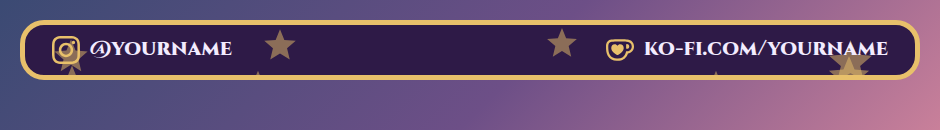
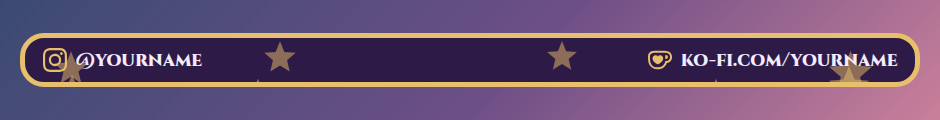
Size the Socials Bar text by the box's height
The text followed the width of the box, so drawing the box narrower made
everything smaller together and the two sides stayed just as far apart.
That is the opposite of what a bar wants. The text is now a share of the
box's height, so a narrower box closes the gaps up, between the sites and
between the left and right sides, and the text only gets smaller once the
gaps cannot close any further.

Text size is now a percent of the height (24 by default), the bar sits in
the middle of its box, and the pictures in the README are redrawn.

diff --git a/overlays/socials-bar/test/test-widget.js b/overlays/socials-bar/test/test-widget.js
@@ -83,15 +83,16 @@ const nameOf = (n) => (n.children[1] ? n.children[1].textContent : "");
   stub(() => true); await load({});
   ok(env.vars("sb-app")["--sb-shrink"] === 0.2, "it never shrinks past a fifth");
   stub(() => false); await load({}); ok(env.vars("sb-app")["--sb-shrink"] === 1 && env.vars("sb-app")["--sb-squeeze"] === 1, "and when there is room again it returns to full size");
+  ok(/container-type:\s*size/.test(css), "the text follows the height of the box, so a narrower box closes the gaps up and leaves the text alone");
   ok(/font-size:\s*calc\(var\(--sb-size[^;]*--sb-shrink/.test(css), "the size is the text size times the shrink");
 
   section("the look");
-  await load({ textSize: 2, iconScale: 2, gap: 3 });
+  await load({ textSize: 30, iconScale: 2, gap: 3 });
   let a = env.vars("sb-app");
-  ok(a["--sb-size"] === "2cqw" && a["--sb-icon"] === 2 && a["--sb-gap"] === 3, "the text, logo and gap sizes are settings");
+  ok(a["--sb-size"] === "30cqh" && a["--sb-icon"] === 2 && a["--sb-gap"] === 3, "the text, logo and gap sizes are settings");
   await load({ textSize: -1, iconScale: 99, gap: 0 });
   a = env.vars("sb-app");
-  ok(a["--sb-size"] === "0.5cqw" && a["--sb-icon"] === 4 && a["--sb-gap"] === 0.2, "within limits");
+  ok(a["--sb-size"] === "5cqh" && a["--sb-icon"] === 4 && a["--sb-gap"] === 0.2, "within limits");
   const cls = () => E("sb-app").classList;
   await load({}); ok(!cls().contains("ic-text") && !cls().contains("ic-brand"), "logos take the accent colour by default");
   await load({ iconColor: "text" }); ok(cls().contains("ic-text"), "or the text colour");

diff --git a/overlays/socials-bar/widget/widget.css b/overlays/socials-bar/widget/widget.css
@@ -11,9 +11,11 @@
   margin: 0;
   display: flex;
   flex-direction: column;
-  /* The width reference for the cqw sizes below. A container's own cqw units resolve
-     against its parent, so the card cannot be the container itself. */
-  container-type: inline-size;
+  /* The size reference for the cqh sizes below. The text follows the height of the box and not its width, so a box that is
+     drawn narrower closes the gaps up and leaves the text alone, and the text only gets smaller once the gaps cannot close
+     any further. */
+  container-type: size;
+  justify-content: center;
   -webkit-font-smoothing: antialiased;
 }
 #sb-root * { box-sizing: border-box; }
@@ -44,7 +46,7 @@
 
   flex: 0 0 auto;
   width: 100%;
-  padding: calc(var(--w-pad) * 1em) 3cqw;
+  padding: calc(var(--w-pad) * 1em) 0.9em;
   font-family: var(--w-font);
   color: var(--w-text);
   background: var(--w-bg);
@@ -53,7 +55,7 @@
   border-radius: var(--w-radius);
   box-shadow: var(--w-shadow);
   line-height: 1.15;
-  font-size: calc(var(--sb-size, 1.6cqw) * var(--sb-shrink, 1));
+  font-size: calc(var(--sb-size, 24cqh) * var(--sb-shrink, 1));
   display: flex;
   flex-wrap: wrap;
   align-items: center;

diff --git a/overlays/socials-bar/widget/widget.js b/overlays/socials-bar/widget/widget.js
@@ -419,7 +419,7 @@
     c.showNames = bool(f.showNames, true);
     c.iconColor = str(f.iconColor, "accent");
     if (c.iconColor !== "text" && c.iconColor !== "brand") c.iconColor = "accent";
-    c.textSize = Math.max(0.5, num(f.textSize, 1.6));
+    c.textSize = clamp(num(f.textSize, 24), 5, 80);
     c.iconScale = clamp(num(f.iconScale, 1.3), 0.5, 4);
     c.gap = clamp(num(f.gap, 1.6), 0.2, 8);
     return c;
@@ -493,7 +493,7 @@
   function applyLook() {
     applyCommonTheme(cfg, el.root, el.app, "sb-font-link");
     var s = el.app.style;
-    s.setProperty("--sb-size", cfg.textSize + "cqw");
+    s.setProperty("--sb-size", cfg.textSize + "cqh");
     s.setProperty("--sb-icon", cfg.iconScale);
     s.setProperty("--sb-gap", cfg.gap);
     s.setProperty("--sb-fade", cfg.fadeSeconds + "s");

diff --git a/overlays/socials-bar/dev/index.html b/overlays/socials-bar/dev/index.html
@@ -8,7 +8,7 @@
   <link rel="stylesheet" href="https://fonts.googleapis.com/css2?family=Quicksand:wght@400;600;700&display=swap">
   <link rel="stylesheet" href="dev.css">
   <style>
-    #stage { width: 900px; height: 130px; }
+    #stage { width: 900px; height: 90px; }
   </style>
 </head>
 <body>

diff --git a/overlays/socials-bar/README.md b/overlays/socials-bar/README.md
@@ -12,8 +12,8 @@ It is a single self-contained widget in plain JavaScript, with no dependencies a
 - The left side rotates: one site at a time fades out as the next fades in, and the bar stays the width of the widest one, so nothing jumps about. You choose how many seconds each stays and how long the fade takes, or untick Rotate to show them all side by side.
 - A logo in front of every handle, in your accent colour, your text colour, or each site's own colour. Or logos on their own, with no handles.
 - Gaps that follow the box: side by side, the sites spread across the width you give the widget in StreamElements, so a wide box gets wide gaps and a narrow one gets close ones. Your gap setting is the least there can be.
-- Squeezes onto one line: when there is less room, the gaps between the sites, and between the left and right sides, close up to as little as a fifth of the setting, and then the whole bar shrinks just far enough to stay on one line, with the two sides close together. Untick Shrink to fit the box and the sites wrap onto a second row instead.
-- Scales with the box: the text scales with the width of the box you draw.
+- Compresses when the box is narrower: the text follows the height of the box and not its width, so drawing the box narrower closes the gaps up, between the sites and between the left and right sides, and leaves the text alone. Only when the gaps cannot close any further does the whole bar shrink, just far enough to stay on one line. Untick Shrink to fit the box and the sites wrap onto a second row instead.
+- Sized by the height of the box: the text is a share of the box's height, so a wide, short box gives a bar with room to spread, and a narrow one a bar that compresses.
 - Customisable: around fifty settings cover the handles, rotation, sizes, shape, outline, colours, fonts and animation.
 - All twenty-two style presets, including the seven pride flags.
 - An outer frame in the accent colour, on by default in every preset, and switched off with one checkbox (the flag's stripes in the pride presets).
@@ -75,7 +75,7 @@ Choose **Custom** to use the colour pickers and font instead. They are ignored w
 2. Select the widget, open **Settings, Open Editor**, and paste each file from `widget/` into the matching tab: `widget.html` into HTML, `widget.css` into CSS, `widget.js` into JS, and `fields.json` into Fields.
 3. Click **Done**. The settings are grouped into Left side, Right side, Rotation, Layout, Size, Look, Custom colours, Decorations and Troubleshooting.
 4. Type your own handles under **Left side** and **Right side**. They start out as `@yourname`, so replace each one and clear the ones you do not use.
-5. Size and position the widget. A box that is wide and short suits it, such as 900 by 90.
+5. Size and position the widget. A box that is wide and short suits it, such as 900 by 80. The text is a share of the box's height, so make the box taller for bigger text, or change **Text size**.
 
 The widget does not read chat or events, so it works as soon as it is on an overlay.
 
